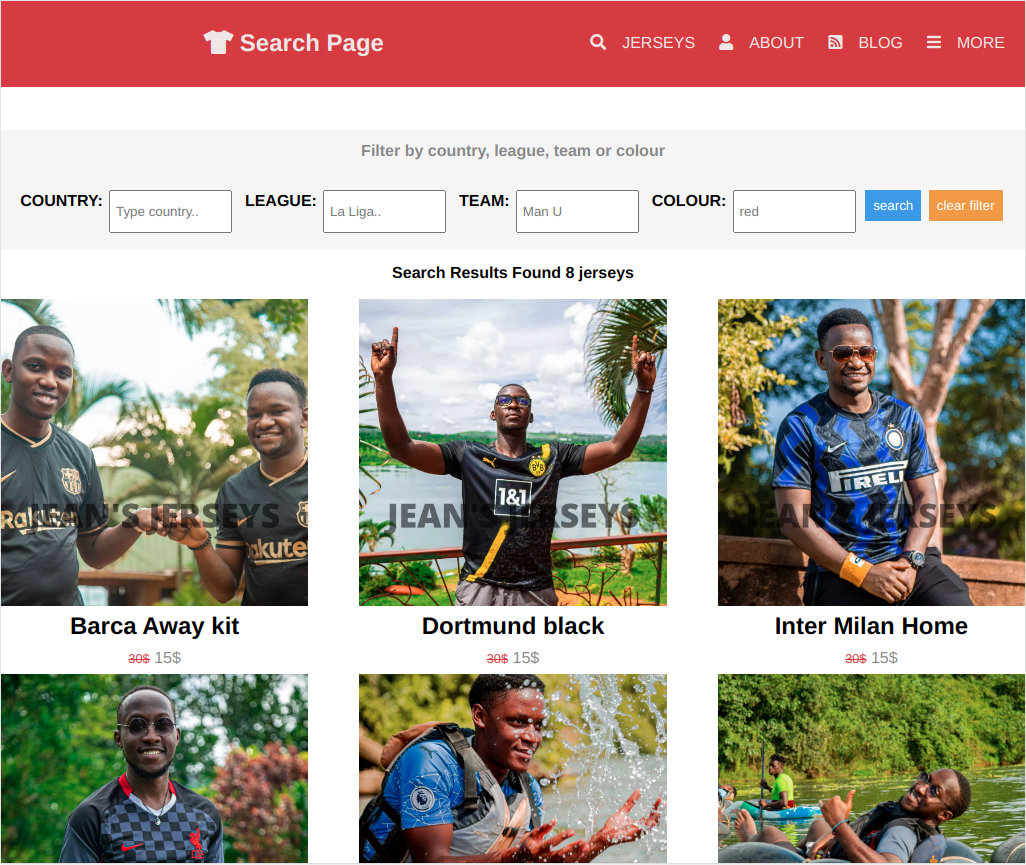
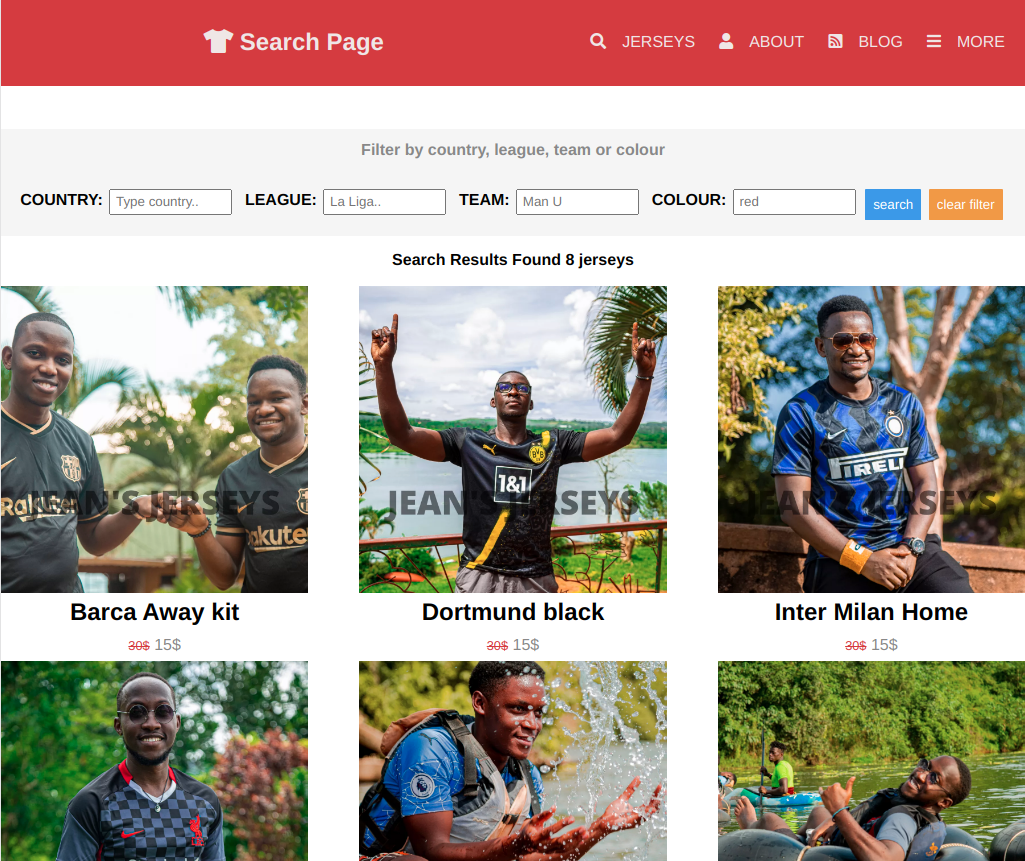
Add inspiration to README.md

diff --git a/search.html b/search.html
@@ -20,12 +20,12 @@
             <nav class="nav">
                 <div class="logo-div">
                     <h1>
-                        <a href="/index.html"><i class="fas fa-tshirt"></i></a>
+                        <a href="index.html"><i class="fas fa-tshirt"></i></a>
                          Search Page
                     </h1>
                 </div>
                 <div class="nav-links">
-                    <a href="/search.html"><i class="fas fa-search"></i><span class="hide">JERSEYS</span></a>
+                    <a href="search.html"><i class="fas fa-search"></i><span class="hide">JERSEYS</span></a>
                     <a href="#"><i class="fas fa-user"></i><span class="hide">ABOUT</span></a>
                     <a href="#"><i class="fas fa-rss-square"></i><span class="hide">BLOG</span></a>
                     <a href="#"><i class="fas fa-bars"></i><span class="hide">MORE</span></a>
@@ -56,49 +56,49 @@
                 <h4>Search Results Found 8 jerseys</h4>
                 <section class="result-grid">
                     <article class="grid-item">
-                        <a href="/search-details.html">
+                        <a href="search-details.html">
                             <img src="assets/barca-bro-code.webp" alt="barca home">
                         </a>
                         <h6>Barca Away kit</h6>
                         <p><span class="former-price">30$</span> 15$</p>
                     </article>
                     <article class="grid-item">
-                        <a href="/search-details.html">
+                        <a href="search-details.html">
                             <img src="assets/ken-dortmund-black.webp" alt="dortmund black">
                         </a>
                         <h6>Dortmund black</h6>
                         <p><span class="former-price">30$</span> 15$</p>
                     </article>
                     <article class="grid-item">
-                        <a href="/search-details.html">
+                        <a href="search-details.html">
                             <img src="assets/inter-milan-josh.webp" alt="milan home">
                         </a>
                         <h6>Inter Milan Home</h6>
                         <p><span class="former-price">30$</span> 15$</p>
                     </article>
                     <article class="grid-item">
-                        <a href="/search-details.html">
+                        <a href="search-details.html">
                             <img src="assets/liverpool-dark.webp" alt="pool dark">
                         </a>
                         <h6>Liverpool Dark</h6>
                         <p><span class="former-price">30$</span> 15$</p>
                     </article>
                     <article class="grid-item">
-                        <a href="/search-details.html">
+                        <a href="search-details.html">
                             <img src="assets/man-city-surfing.webp" alt="man city white">
                         </a>
                         <h6>Man City Home</h6>
                         <p><span class="former-price">30$</span> 15$</p>
                     </article>
                     <article class="grid-item">
-                        <a href="/search-details.html">
+                        <a href="search-details.html">
                             <img src="assets/tubing.webp" alt="liverpool">
                         </a>
                         <h6>Liverpool</h6>
                         <p><span class="former-price">30$</span> 15$</p>
                     </article>
                     <article class="grid-item">
-                        <a href="/search-details.html">
+                        <a href="search-details.html">
                             <img src="assets/mancity-white.webp" alt="man city">
                         </a>
                         <h6>Man City White</h6>
@@ -119,7 +119,7 @@
                 <div class="row-1">
                     <div class="links-1">
                         <a href="#">HOME</a>
-                        <a href="/search.html">SEARCH</a>
+                        <a href="search.html">SEARCH</a>
                         <a href="#">ABOUT US</a>
                         <a href="#">ADVERTISE</a>
                     </div>

diff --git a/index.html b/index.html
@@ -22,7 +22,7 @@
                     <h1><i class="fas fa-tshirt"></i> jersey directory</h1>
                 </div>
                 <div class="nav-links">
-                    <a href="/search.html"><i class="fas fa-search"></i><span class="hide">JERSEYS</span></a>
+                    <a href="search.html"><i class="fas fa-search"></i><span class="hide">JERSEYS</span></a>
                     <a href="#"><i class="fas fa-user"></i><span class="hide">ABOUT</span></a>
                     <a href="#"><i class="fas fa-rss-square"></i><span class="hide">BLOG</span></a>
                     <a href="#"><i class="fas fa-bars"></i><span class="hide">MORE</span></a>
@@ -40,7 +40,7 @@
                             <label for="search">SEARCH BY KEY WORD:</label>
                             <div class="form-container">
                                 <input type="text" id="search" required>
-                                <a href="/search.html" class="landing-button">SEARCH</a>
+                                <a href="search.html" class="landing-button">SEARCH</a>
                             </div>
                         </form>
                     </div>
@@ -139,7 +139,7 @@
                 <div class="row-1">
                     <div class="links-1">
                         <a href="#">HOME</a>
-                        <a href="/search.html">SEARCH</a>
+                        <a href="search.html">SEARCH</a>
                         <a href="#">ABOUT US</a>
                         <a href="#">ADVERTISE</a>
                     </div>

diff --git a/search-details.html b/search-details.html
@@ -20,12 +20,12 @@
             <nav class="nav">
                 <div class="logo-div">
                     <h1>
-                        <a href="/index.html"><i class="fas fa-tshirt"></i></a>
+                        <a href="index.html"><i class="fas fa-tshirt"></i></a>
                          Search Details
                     </h1>
                 </div>
                 <div class="nav-links">
-                    <a href="/search.html"><i class="fas fa-search"></i><span class="hide">JERSEYS</span></a>
+                    <a href="search.html"><i class="fas fa-search"></i><span class="hide">JERSEYS</span></a>
                     <a href="#"><i class="fas fa-user"></i><span class="hide">ABOUT</span></a>
                     <a href="#"><i class="fas fa-rss-square"></i><span class="hide">BLOG</span></a>
                     <a href="#"><i class="fas fa-bars"></i><span class="hide">MORE</span></a>
@@ -75,7 +75,7 @@
                 <div class="row-1">
                     <div class="links-1">
                         <a href="#">HOME</a>
-                        <a href="/search.html">SEARCH</a>
+                        <a href="search.html">SEARCH</a>
                         <a href="#">ABOUT US</a>
                         <a href="#">ADVERTISE</a>
                     </div>

diff --git a/css/styles.css b/css/styles.css
@@ -639,7 +639,7 @@ footer {
   }
 
   #search-page-form input[type=text] {
-    height: 5vh;
+    height: 3vh;
     width: 12vw;
     margin-right: 0.5rem;
   }

diff --git a/README.md b/README.md
@@ -78,7 +78,7 @@ Give a ⭐ if you like this project!
 - Hat tip to Microverse for the README template, instructions and tutoring for this Capstone project.
 
 ## Inspirations
-- Credit to [Patashule KE](https://www.behance.net/gallery/25563385/PatashuleKE) for providing the design to base this capstone on.
+- Design idea by [Mathew Njuguna and others on Behance](https://www.behance.net/mathewnjuguna)
 
 ## 📝 License
 
